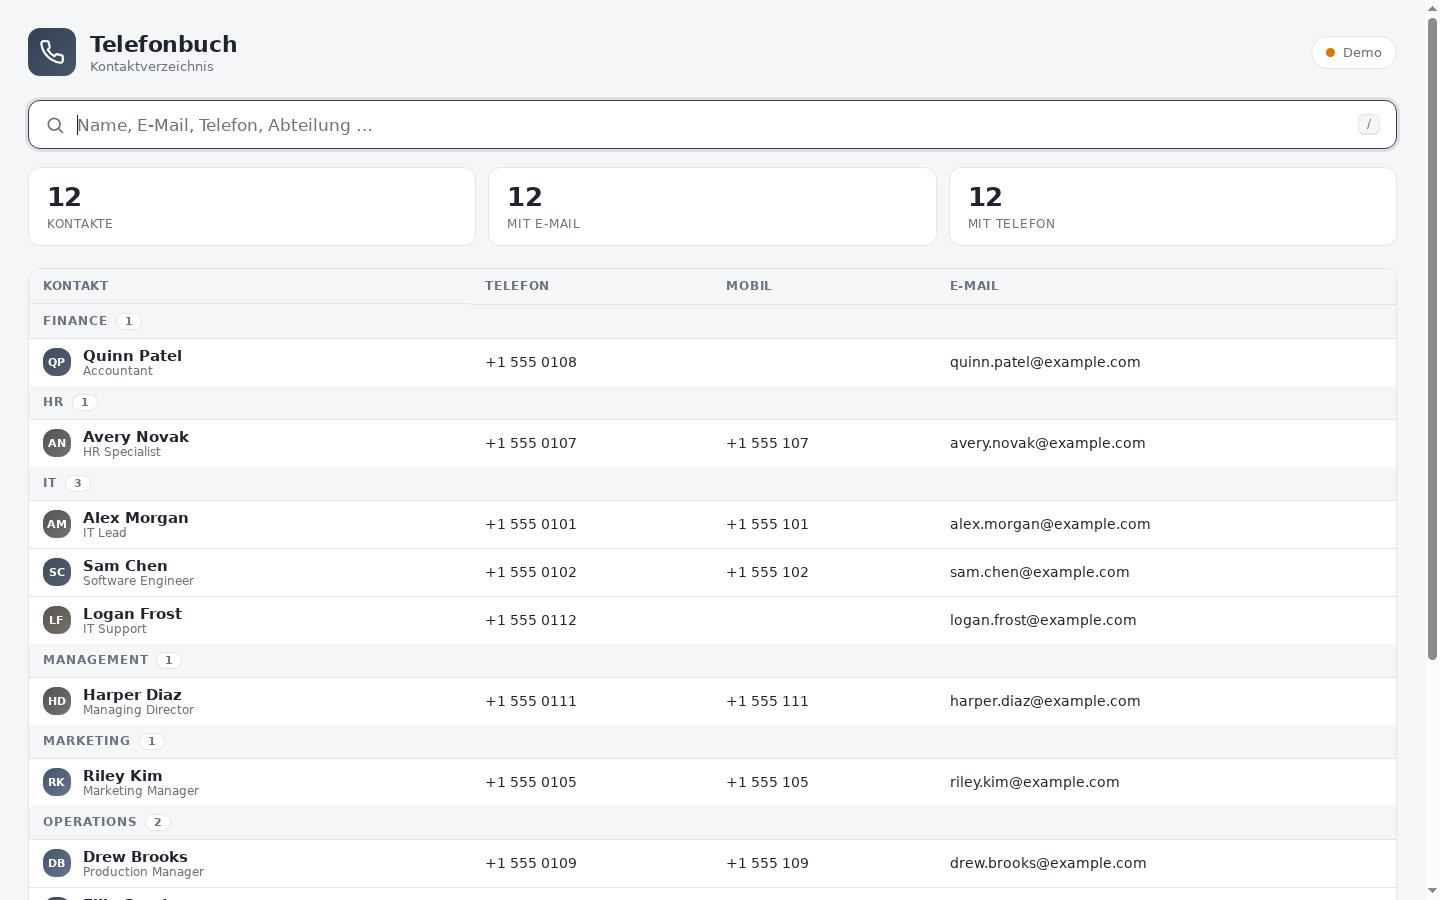
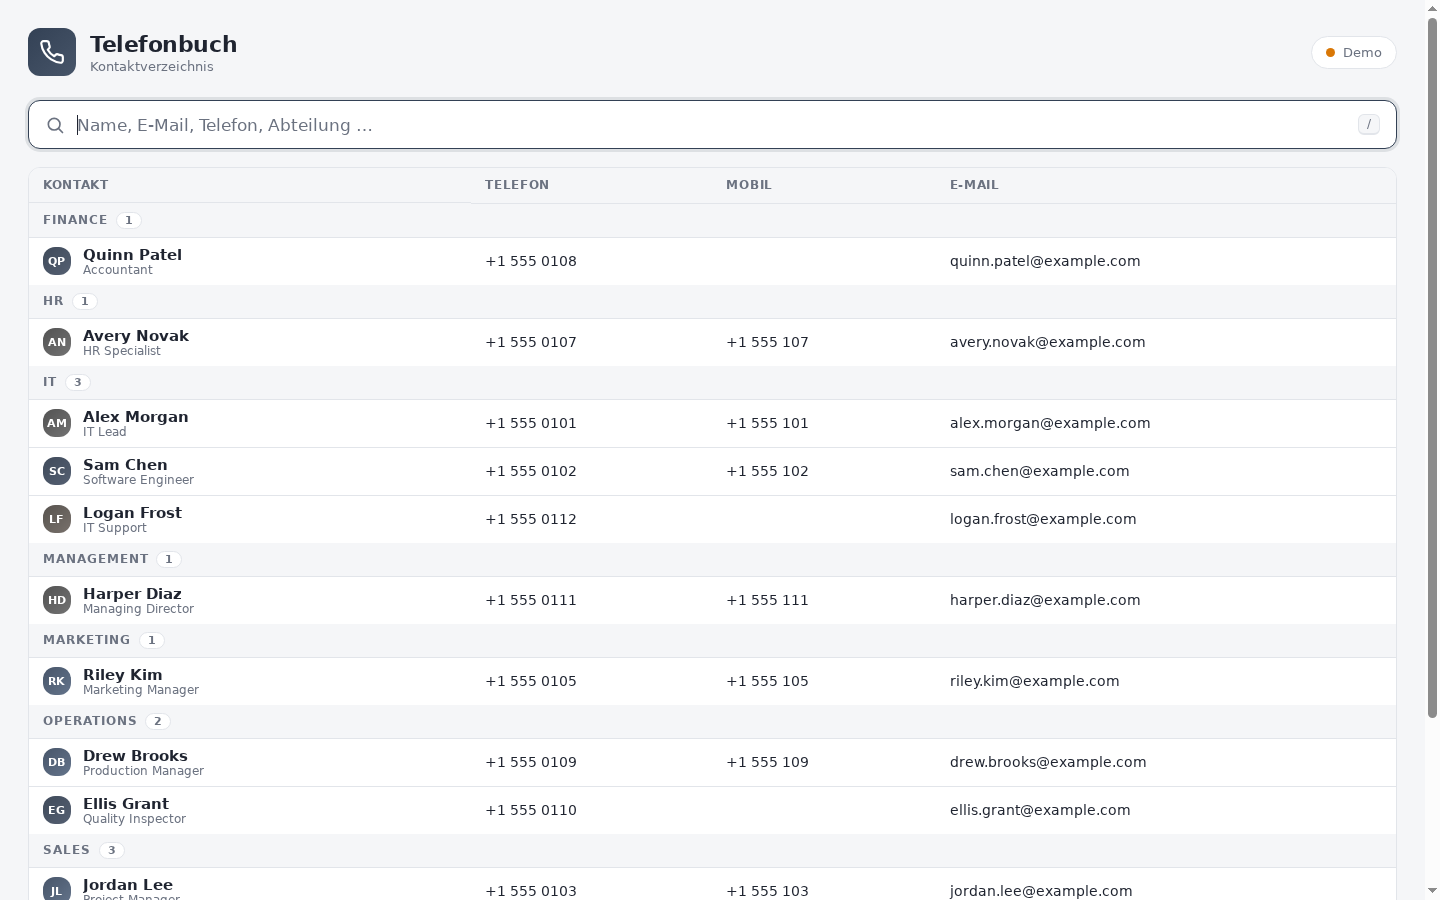
feat: remove stats row at the top
Key figures (Kontakte/mit E-Mail/mit Telefon) removed; mode badge and
footer count kept.

diff --git a/frontend/src/App.tsx b/frontend/src/App.tsx
@@ -150,11 +150,6 @@ export default function App() {
     return () => { cancelled = true }
   }, [selected])
 
-  const counts = useMemo(() => {
-    if (!stats) return null
-    return { total: stats.total, mail: stats.withMail, phone: stats.withPhone, mode: stats.mode }
-  }, [stats])
-
   const groups = useMemo(() => {
     const map = new Map<string, Contact[]>()
     for (const c of contacts) {
@@ -188,10 +183,10 @@ export default function App() {
             <p>Kontaktverzeichnis</p>
           </div>
         </div>
-        {counts && (
+        {stats && (
           <div className="mode-badge" title="Aktive Datenquelle">
-            <span className={`mode-dot ${counts.mode === 'ldap' ? 'ok' : 'demo'}`} />
-            {counts.mode === 'ldap' ? 'Verzeichnis' : 'Demo'}
+            <span className={`mode-dot ${stats.mode === 'ldap' ? 'ok' : 'demo'}`} />
+            {stats.mode === 'ldap' ? 'Verzeichnis' : 'Demo'}
           </div>
         )}
       </header>
@@ -213,23 +208,6 @@ export default function App() {
           <kbd>/</kbd>
         </div>
       </div>
-
-      {counts && (
-        <div className="stats">
-          <div className="stat">
-            <span className="stat-value">{counts.total}</span>
-            <span className="stat-label">Kontakte</span>
-          </div>
-          <div className="stat">
-            <span className="stat-value">{counts.mail}</span>
-            <span className="stat-label">mit E-Mail</span>
-          </div>
-          <div className="stat">
-            <span className="stat-value">{counts.phone}</span>
-            <span className="stat-label">mit Telefon</span>
-          </div>
-        </div>
-      )}
 
       {error && <div className="error-banner">{error}</div>}
 

diff --git a/frontend/src/index.css b/frontend/src/index.css
@@ -105,26 +105,6 @@ html, body {
   font-family: inherit;
 }
 
-.stats {
-  display: grid;
-  grid-template-columns: repeat(3, 1fr);
-  gap: 12px;
-  margin-bottom: 22px;
-}
-
-.stat {
-  background: var(--card);
-  border: 1px solid var(--border);
-  border-radius: var(--radius);
-  padding: 14px 18px;
-  display: flex;
-  flex-direction: column;
-  gap: 4px;
-}
-
-.stat-value { font-size: 1.6rem; font-weight: 700; letter-spacing: -0.02em; }
-.stat-label { color: var(--muted); font-size: 0.78rem; text-transform: uppercase; letter-spacing: 0.06em; }
-
 .error-banner {
   background: #fef2f2;
   border: 1px solid #fecaca;
@@ -373,9 +353,6 @@ a.row-link:hover { border-color: var(--accent); }
   .cell-mail, .cell-mobile { display: none; }
   .table { min-width: 0; }
   .app { padding: 20px 14px 36px; }
-  .stats { grid-template-columns: repeat(3, 1fr); gap: 8px; }
-  .stat { padding: 10px 12px; }
-  .stat-value { font-size: 1.25rem; }
   .table-wrap { font-size: 0.82rem; }
   .cell-contact { min-width: 0; }
   .table td { padding: 8px 10px; }
